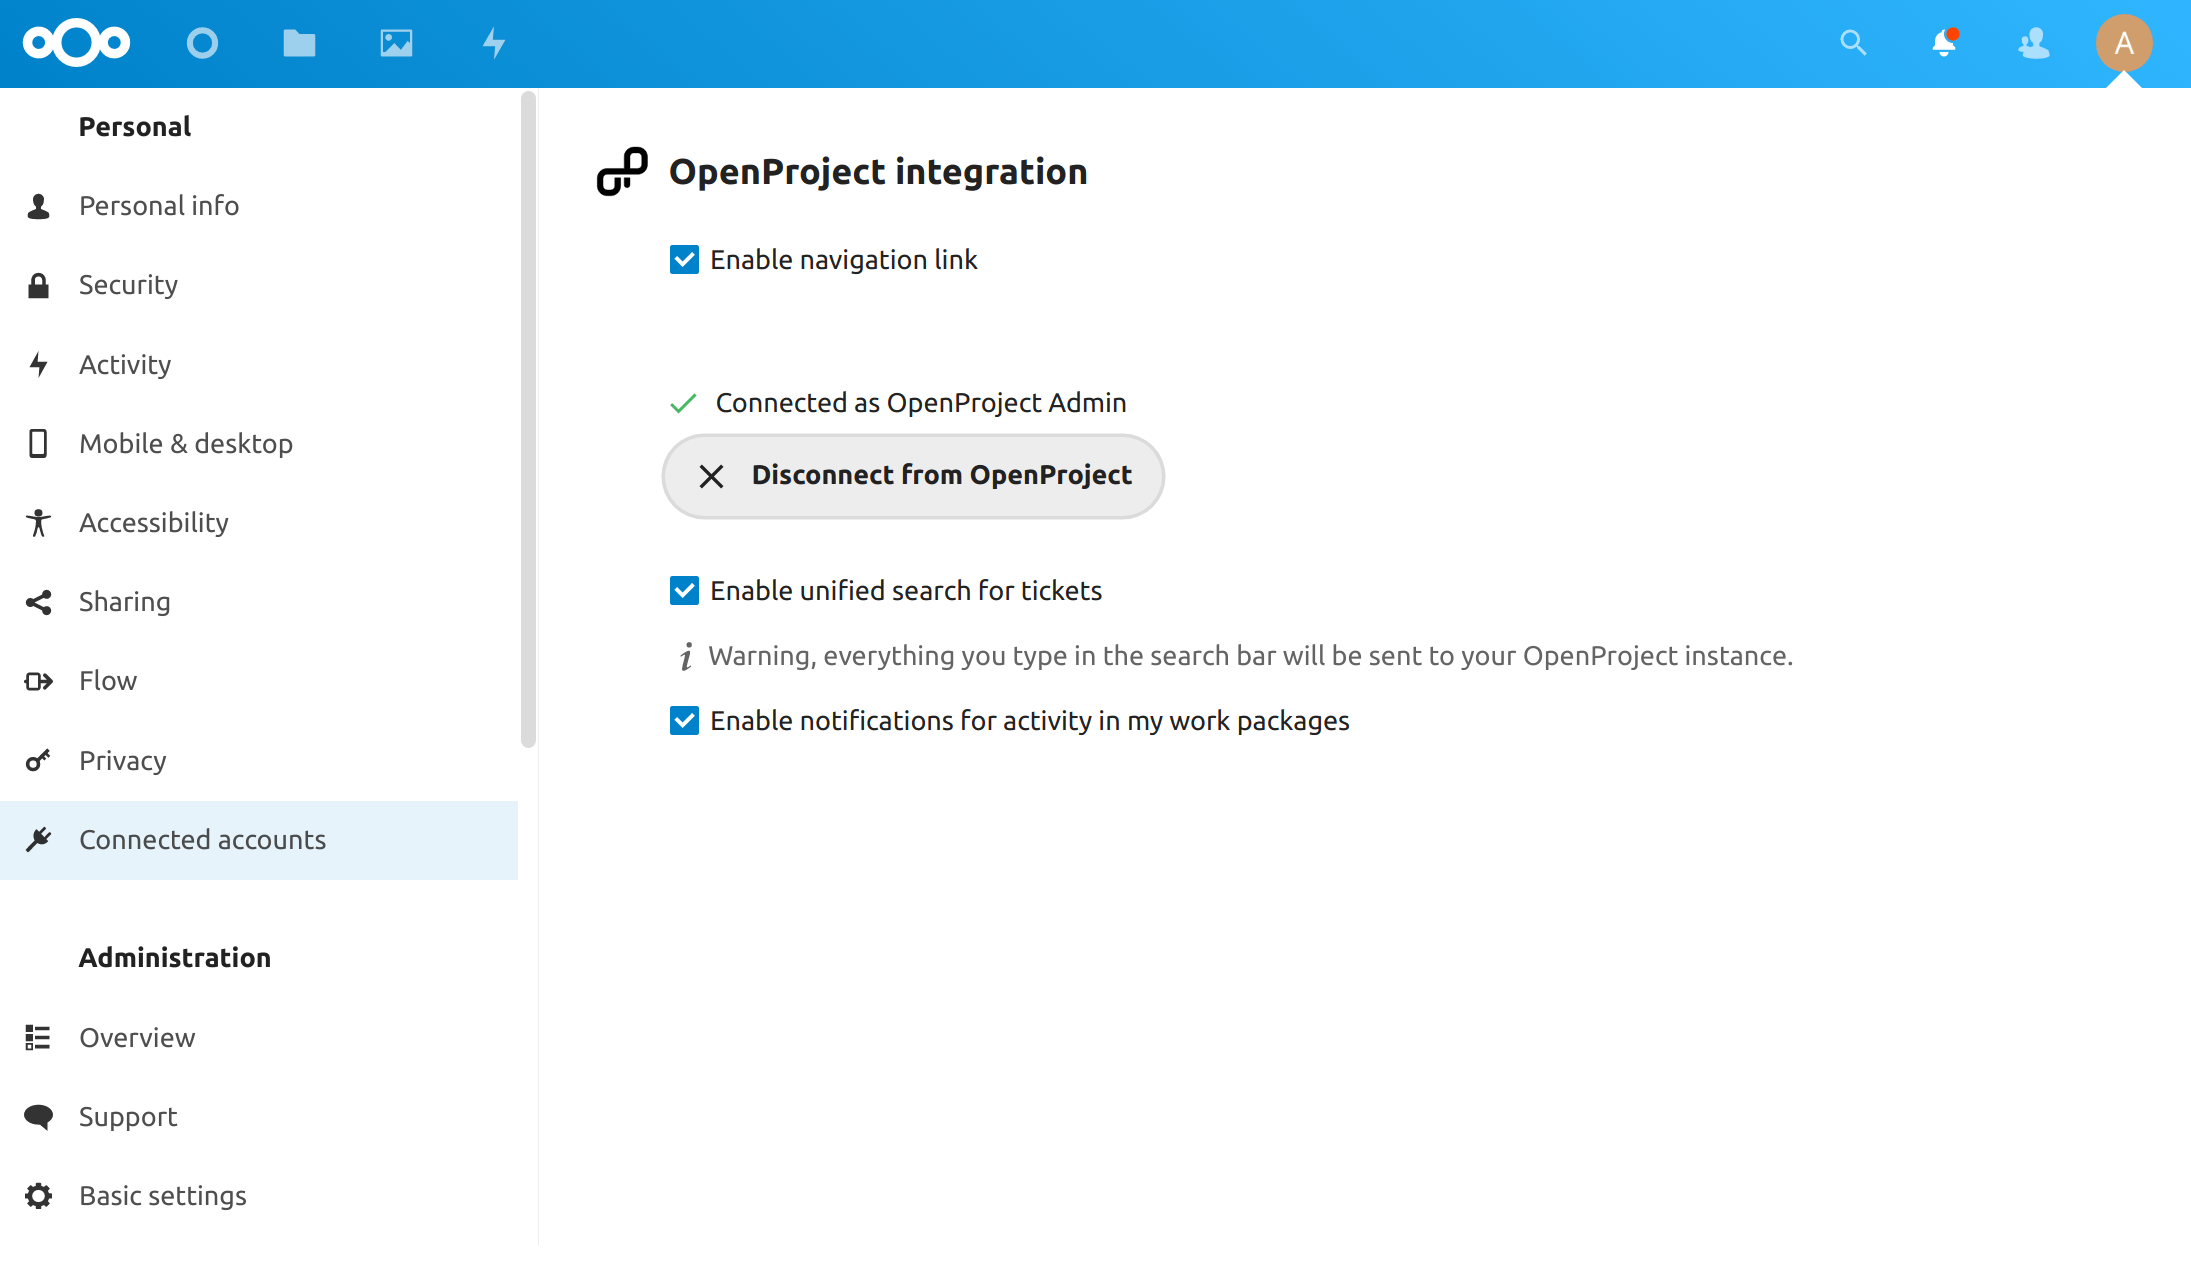
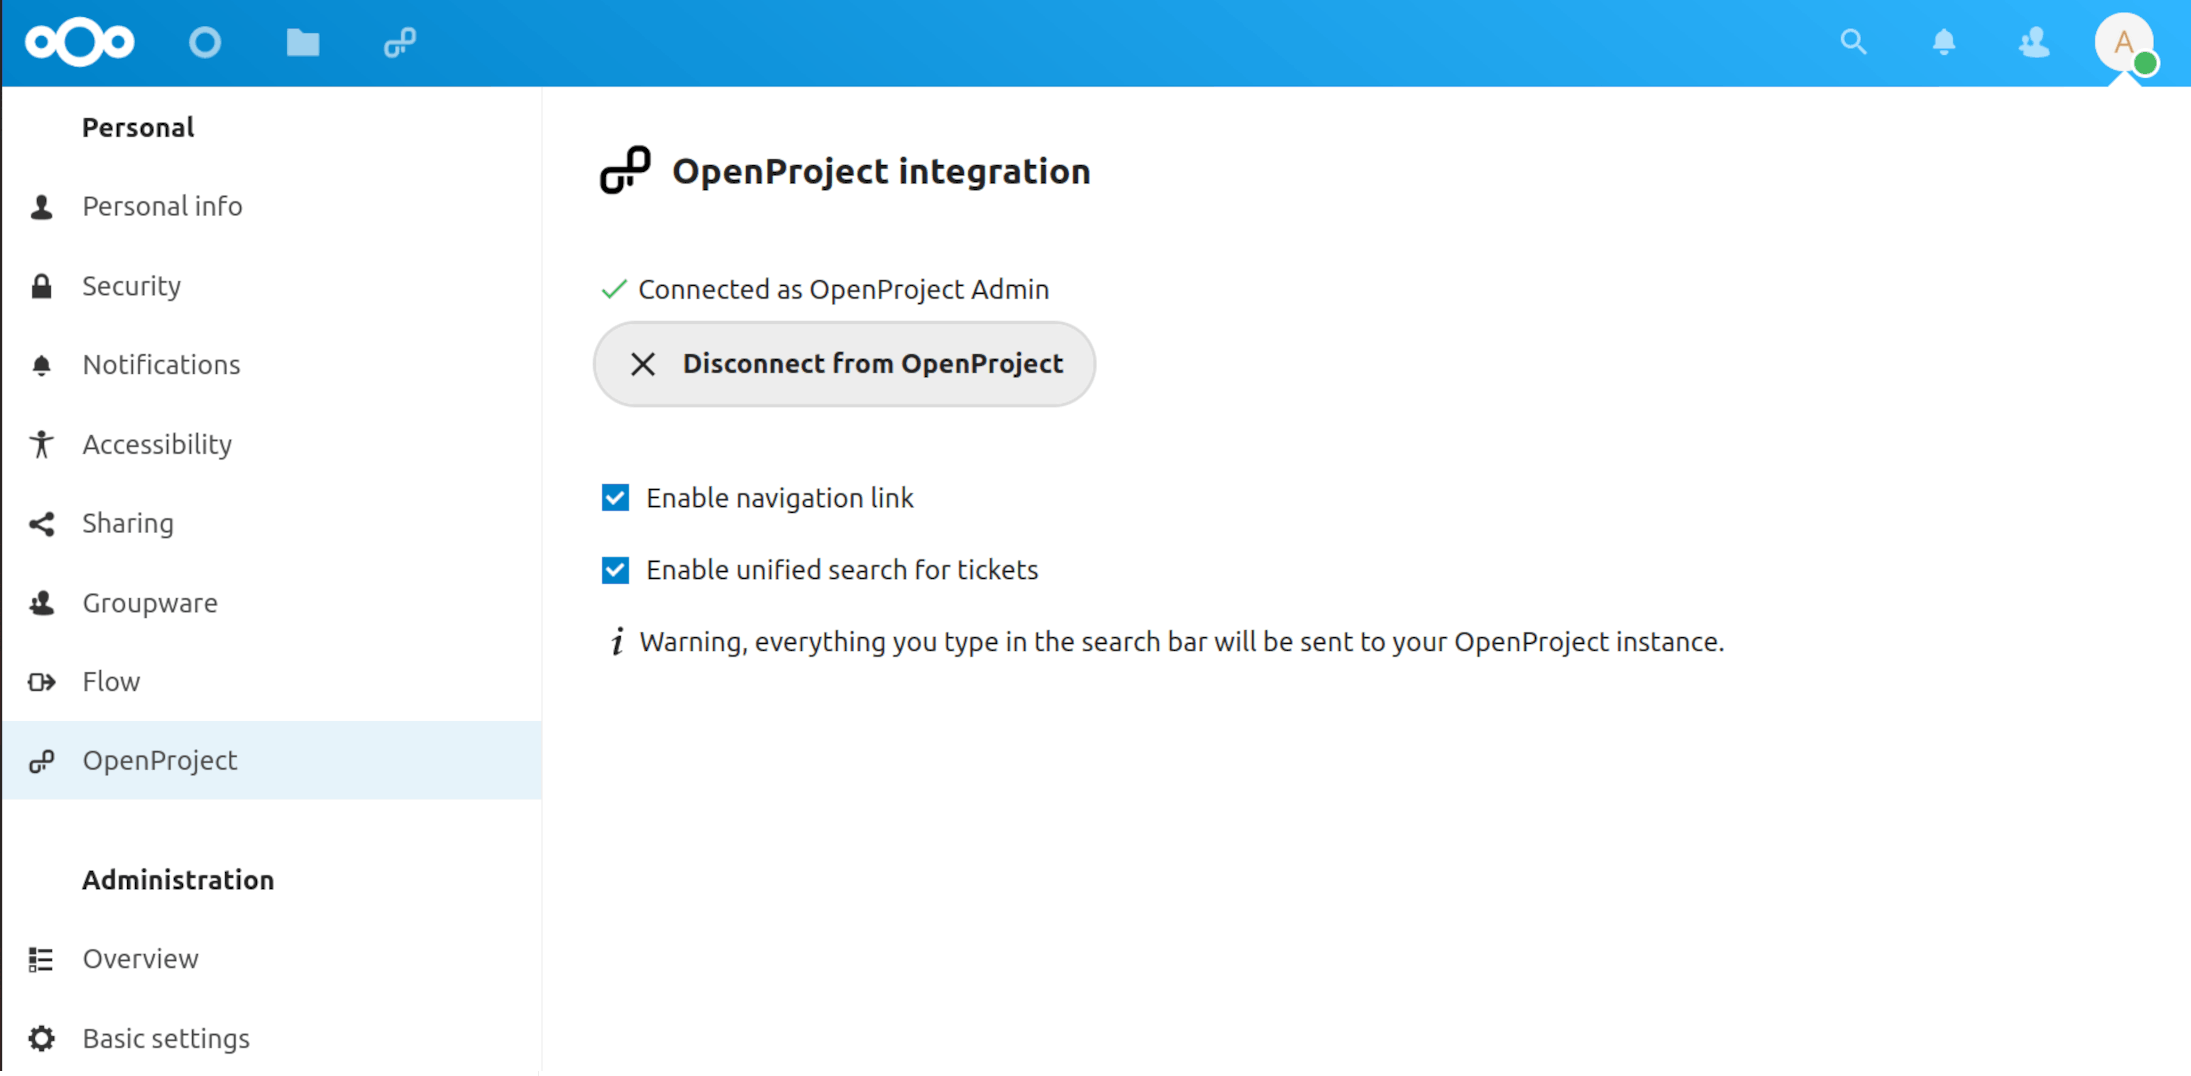
stop showing OP notifications as NC notifications

diff --git a/docs/user-guide/nextcloud-integration/README.md b/docs/user-guide/nextcloud-integration/README.md
@@ -89,7 +89,6 @@ There are three additional features related to the integration that you can enab
 
 - **Enable navigation link** displays a link to your OpenProject instance in the Nextcloud header 
 - **Enable unified search for tickets** allows you to search OpenProject work packages via the universal search bar in Nextcloud
-- **Enable notifications for activity in my work packages** sends you notifications when there are updates to linked OpenProject work packages
 
 ![NC_extra_settings](Nextcloud_connected_account.png)
 
@@ -149,9 +148,3 @@ If you see the words "No Nextcloud connection" in the Files tab in OpenProject, 
 In rare occasions, it is possible for the integration to not be able to fetch all the details of all linked files. A simple page refresh should solve the issue. Should the error persist, please contact administrator of your OpenProject and Nextcloud instances.
 
 ![OP_fetching_error](1_0_03-Fetching_error.png)
-
-#### Project notifications are not displayed in Nextcloud
-
-If OpenProject notifications are not properly displayed in Nextcloud, navigate to *Nextcloud settings → Basic settings → Background jobs* and ensure that _Cron_ is selected.
-
-![NC_notifications_not_displayed](Cron_job_settings.png)

diff --git a/docs/system-admin-guide/integrations/nextcloud/README.md b/docs/system-admin-guide/integrations/nextcloud/README.md
@@ -137,7 +137,6 @@ Additional settings on this page also allow you, as an administrator, to define 
 
 - **Enable navigation link** displays a link to the OpenProject instance in the Nextcloud header 
 - **Enable unified search for tickets** allows users to search for OpenProject work packages via the universal search bar in Nextcloud
-- **Enable notifications for activity in my work packages** sends users Nextcloud notifications when there are updates to linked OpenProject work packages
 
 
 #### 5. Add your new Nextcloud file storage to a project
